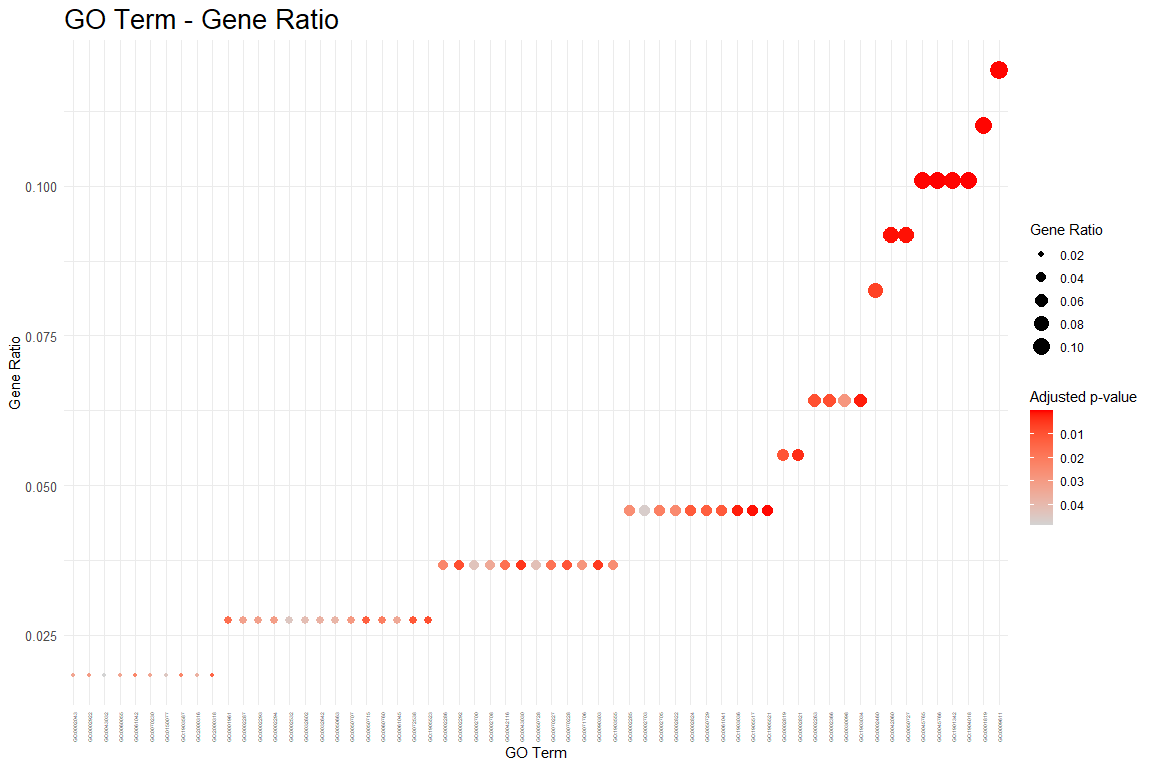
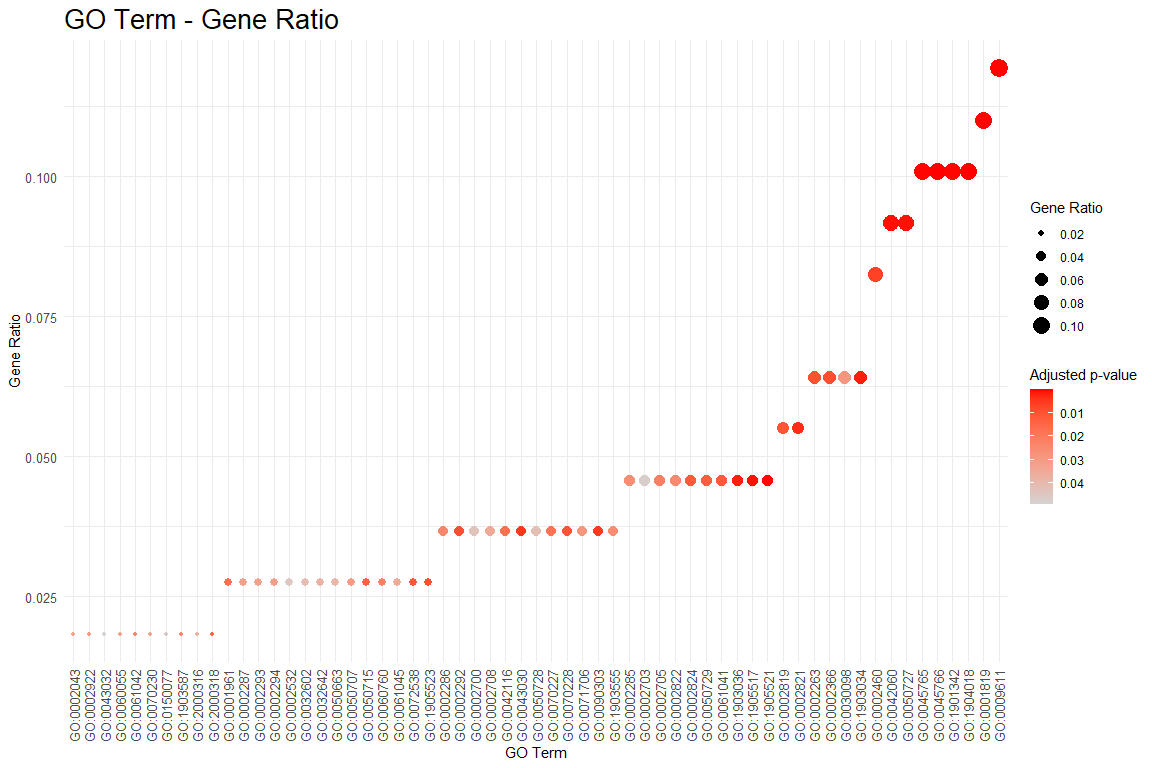
changes4

diff --git a/Projects/lizzola/flomaili.md b/Projects/lizzola/flomaili.md
@@ -1,11 +1,15 @@
-    transcript_data %>%
-      select(1:3) -> DEG_data
+    clean_transcript_data <- function(data, col_indices) {
+      data %>%
+        select(all_of(col_indices)) %>%
+        {
+          colnames(.) <- as.character(unlist(.[2, ]))
+          .[-c(1, 2), ]
+        }
+    }
 
-    header_row2 <- as.character(DEG_data[2, ])
-    colnames(DEG_data) <- header_row2
-    DEG_data <- DEG_data[-c(1, 2), ]
 
-    DEG_data %>% 
+    transcript_data  %>% 
+      clean_transcript_data(1:3) %>%
       rename(p_adjust = p.adjust) %>%
       mutate(p_adjust = as.double(p_adjust)) %>%
       mutate(logFC = as.numeric(logFC)) %>%
@@ -17,113 +21,68 @@
       filter(p_adjust < 0.05) %>%      
       arrange(desc(logFC)) %>%        
       head(10) 
-
+    ### kableExtra is for HTML output
+    #DEG_data_t10 %>%
+     # select(1:3) %>%
+      #kable(
+       # caption = "Top 10 Differentially Expressed Genes (p.adjust < 0.05)",
+        #col.names = c("Gene Name", "LogFC", "P-value"),
+    #    align = "lcc" 
+     # ) %>%
+    #  kable_styling(
+    #    bootstrap_options = c("striped", "hover", "condensed"),
+    #    full_width = FALSE
+    #  ) %>%
+     # add_header_above(c("Gene Information" = 1, "Expression Changes" = 2)) %>% 
+     # footnote(
+      #  general = "Filtered for p.adjust < 0.05 and ranked by highest logFC. LogFC > 0 indicates upregulation.",
+       # footnote_as_chunk = TRUE
+      #) 
+    #####
 
     DEG_data_t10 %>%
       select(1:3) %>%
       kable(
         caption = "Top 10 Differentially Expressed Genes (p.adjust < 0.05)",
         col.names = c("Gene Name", "LogFC", "P-value"),
-        align = "lcc" 
-      ) %>%
-      kable_styling(
-        bootstrap_options = c("striped", "hover", "condensed"),
-        full_width = FALSE
-      ) %>%
-      add_header_above(c("Gene Information" = 1, "Expression Changes" = 2)) %>% 
-      footnote(
-        general = "Filtered for p.adjust < 0.05 and ranked by highest logFC. LogFC > 0 indicates upregulation.",
-        footnote_as_chunk = TRUE
+        align = "lcc"
       ) %>%
       print()
 
-    ## <table class="table table-striped table-hover table-condensed" style="width: auto !important; margin-left: auto; margin-right: auto;border-bottom: 0;">
-    ## <caption>Top 10 Differentially Expressed Genes (p.adjust &lt; 0.05)</caption>
-    ##  <thead>
-    ## <tr>
-    ## <th style="border-bottom:hidden;padding-bottom:0; padding-left:3px;padding-right:3px;text-align: center; " colspan="1"><div style="border-bottom: 1px solid #ddd; padding-bottom: 5px; ">Gene Information</div></th>
-    ## <th style="border-bottom:hidden;padding-bottom:0; padding-left:3px;padding-right:3px;text-align: center; " colspan="2"><div style="border-bottom: 1px solid #ddd; padding-bottom: 5px; ">Expression Changes</div></th>
-    ## </tr>
-    ##   <tr>
-    ##    <th style="text-align:left;"> Gene Name </th>
-    ##    <th style="text-align:center;"> LogFC </th>
-    ##    <th style="text-align:center;"> P-value </th>
-    ##   </tr>
-    ##  </thead>
-    ## <tbody>
-    ##   <tr>
-    ##    <td style="text-align:left;"> Acod1 </td>
-    ##    <td style="text-align:center;"> 4.919507 </td>
-    ##    <td style="text-align:center;"> 0.0041432 </td>
-    ##   </tr>
-    ##   <tr>
-    ##    <td style="text-align:left;"> Vegfa </td>
-    ##    <td style="text-align:center;"> 3.464017 </td>
-    ##    <td style="text-align:center;"> 0.0000000 </td>
-    ##   </tr>
-    ##   <tr>
-    ##    <td style="text-align:left;"> Thbs1 </td>
-    ##    <td style="text-align:center;"> 3.369642 </td>
-    ##    <td style="text-align:center;"> 0.0039819 </td>
-    ##   </tr>
-    ##   <tr>
-    ##    <td style="text-align:left;"> Serpine1 </td>
-    ##    <td style="text-align:center;"> 3.197021 </td>
-    ##    <td style="text-align:center;"> 0.0000000 </td>
-    ##   </tr>
-    ##   <tr>
-    ##    <td style="text-align:left;"> AA467197 </td>
-    ##    <td style="text-align:center;"> 3.112409 </td>
-    ##    <td style="text-align:center;"> 0.0000005 </td>
-    ##   </tr>
-    ##   <tr>
-    ##    <td style="text-align:left;"> Cst7 </td>
-    ##    <td style="text-align:center;"> 2.847473 </td>
-    ##    <td style="text-align:center;"> 0.0000000 </td>
-    ##   </tr>
-    ##   <tr>
-    ##    <td style="text-align:left;"> Flt1 </td>
-    ##    <td style="text-align:center;"> 2.698421 </td>
-    ##    <td style="text-align:center;"> 0.0000350 </td>
-    ##   </tr>
-    ##   <tr>
-    ##    <td style="text-align:left;"> C3 </td>
-    ##    <td style="text-align:center;"> 2.566213 </td>
-    ##    <td style="text-align:center;"> 0.0000280 </td>
-    ##   </tr>
-    ##   <tr>
-    ##    <td style="text-align:left;"> Slc7a11 </td>
-    ##    <td style="text-align:center;"> 2.457346 </td>
-    ##    <td style="text-align:center;"> 0.0458777 </td>
-    ##   </tr>
-    ##   <tr>
-    ##    <td style="text-align:left;"> Acp5 </td>
-    ##    <td style="text-align:center;"> 2.441797 </td>
-    ##    <td style="text-align:center;"> 0.0000066 </td>
-    ##   </tr>
-    ## </tbody>
-    ## <tfoot><tr><td style="padding: 0; " colspan="100%">
-    ## <span style="font-style: italic;">Note: </span> <sup></sup> Filtered for p.adjust &lt; 0.05 and ranked by highest logFC. LogFC &gt; 0 indicates upregulation.</td></tr></tfoot>
-    ## </table>
+    ## 
+    ## 
+    ## Table: Top 10 Differentially Expressed Genes (p.adjust < 0.05)
+    ## 
+    ## |Gene Name |  LogFC   |  P-value  |
+    ## |:---------|:--------:|:---------:|
+    ## |Acod1     | 4.919507 | 0.0041432 |
+    ## |Vegfa     | 3.464017 | 0.0000000 |
+    ## |Thbs1     | 3.369642 | 0.0039819 |
+    ## |Serpine1  | 3.197021 | 0.0000000 |
+    ## |AA467197  | 3.112409 | 0.0000005 |
+    ## |Cst7      | 2.847473 | 0.0000000 |
+    ## |Flt1      | 2.698421 | 0.0000350 |
+    ## |C3        | 2.566213 | 0.0000280 |
+    ## |Slc7a11   | 2.457346 | 0.0458777 |
+    ## |Acp5      | 2.441797 | 0.0000066 |
 
-    transcript_data %>%
-      select(6:11) -> GO_data_up
-
-    header_row2 <- as.character(GO_data_up[2, ])
-    colnames(GO_data_up) <- header_row2
-    GO_data_up <- GO_data_up[-c(1, 2), ]
-
-    terms <- c("angiogenesis", "immune response", "immunity", "cytokine", "vasculature", "wound", "inflammatory response", "chemokine", "lymphatic", "lymphocyte", "macrophage", "monocyte")
-    pattern <- str_c(terms, collapse = "|")
+    terms_pattern <- c(
+      "angiogenesis", "immune response", "immunity", "cytokine",
+      "vasculature", "wound", "inflammatory response", "chemokine",
+      "lymphatic", "lymphocyte", "macrophage", "monocyte"
+    ) %>% 
+      str_c(collapse = "|")
 
 
-    GO_data_up <- GO_data_up %>%
+
+    GO_data_up <- transcript_data %>%
+      clean_transcript_data(6:11) %>%
       rename(p_adjust_2 =p.adjust) %>%
       mutate(p_adjust_2 = as.double(p_adjust_2)) %>%
       separate(GeneRatio, into = c("num", "den"), sep = "/", convert = TRUE) %>%
       mutate(GeneRatio = as.double(num) / as.double(den)) %>%
       select( ID, Description,GeneRatio,p_adjust_2) %>%
-      filter(!is.na(Description) & str_detect(Description, regex(pattern, ignore_case = TRUE)))
+      filter(!is.na(Description) & str_detect(Description, regex(terms_pattern, ignore_case = TRUE)))
 
 It didn’ make sense to me to delete the ID column, because I need this
 one for the second data visualisation task.
@@ -133,7 +92,7 @@ one for the second data visualisation task.
     DEG_data %>%
       ggplot(aes(x=logFC, y=-log10(p_adjust))) +
       geom_point(aes(colour = logFC_high)) +
-        geom_text_repel(aes(label = gene), max.overlaps = 40) +
+        geom_text_repel(aes(label = gene), max.overlaps = 30) +
       geom_hline(yintercept = -log10(0.05), linetype = "solid", color = "black") +
       geom_vline(xintercept = c(-2, 2), linetype = "solid", color = "black") +
       labs(title = title_plot1, x="log2FC") +
@@ -161,7 +120,7 @@ Gene names to the plot as the plot would be too cluttered.
       theme_minimal() +
       theme(
         legend.position = "right",
-        axis.text.y = element_text(size = 10), axis.text.x = element_text(size = 4,angle = 90, vjust = 0.5, hjust = 1), plot.title = element_text(size = 20)
+        axis.text.y = element_text(size = 10), axis.text.x = element_text(size = 10,angle = 90, vjust = 0.5, hjust = 1), plot.title = element_text(size = 20)
       )+
       coord_flip()
 
